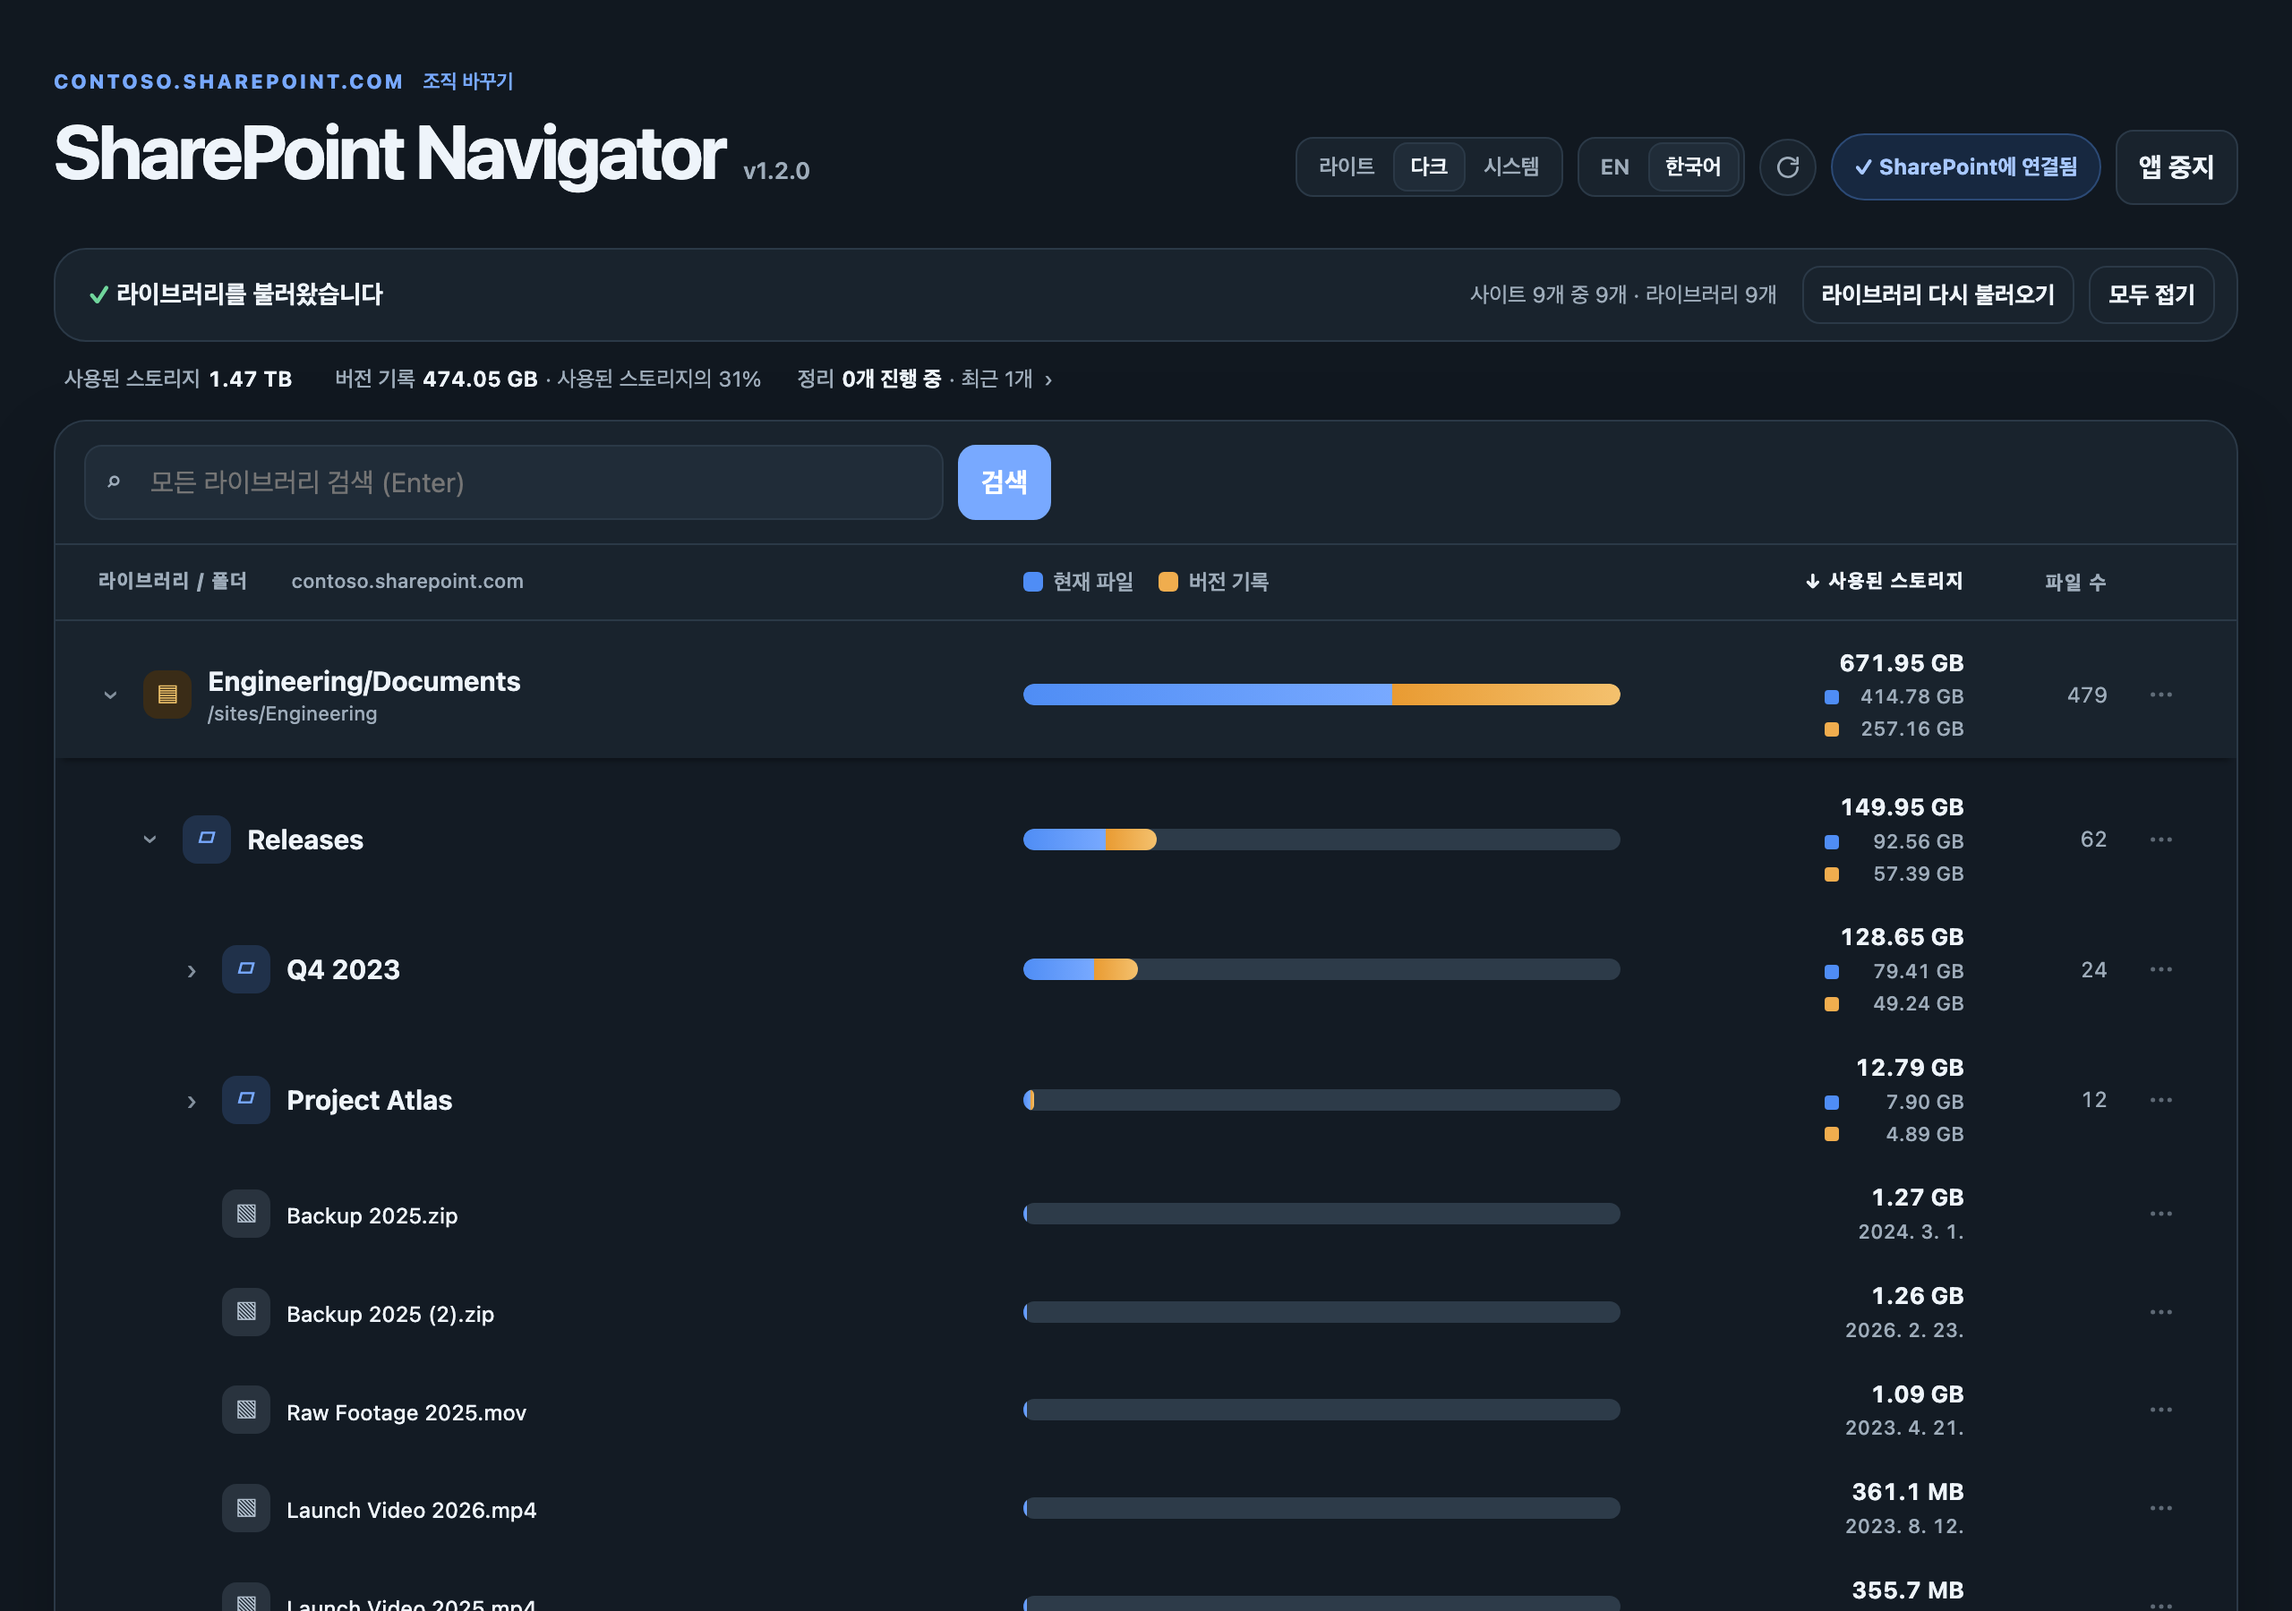
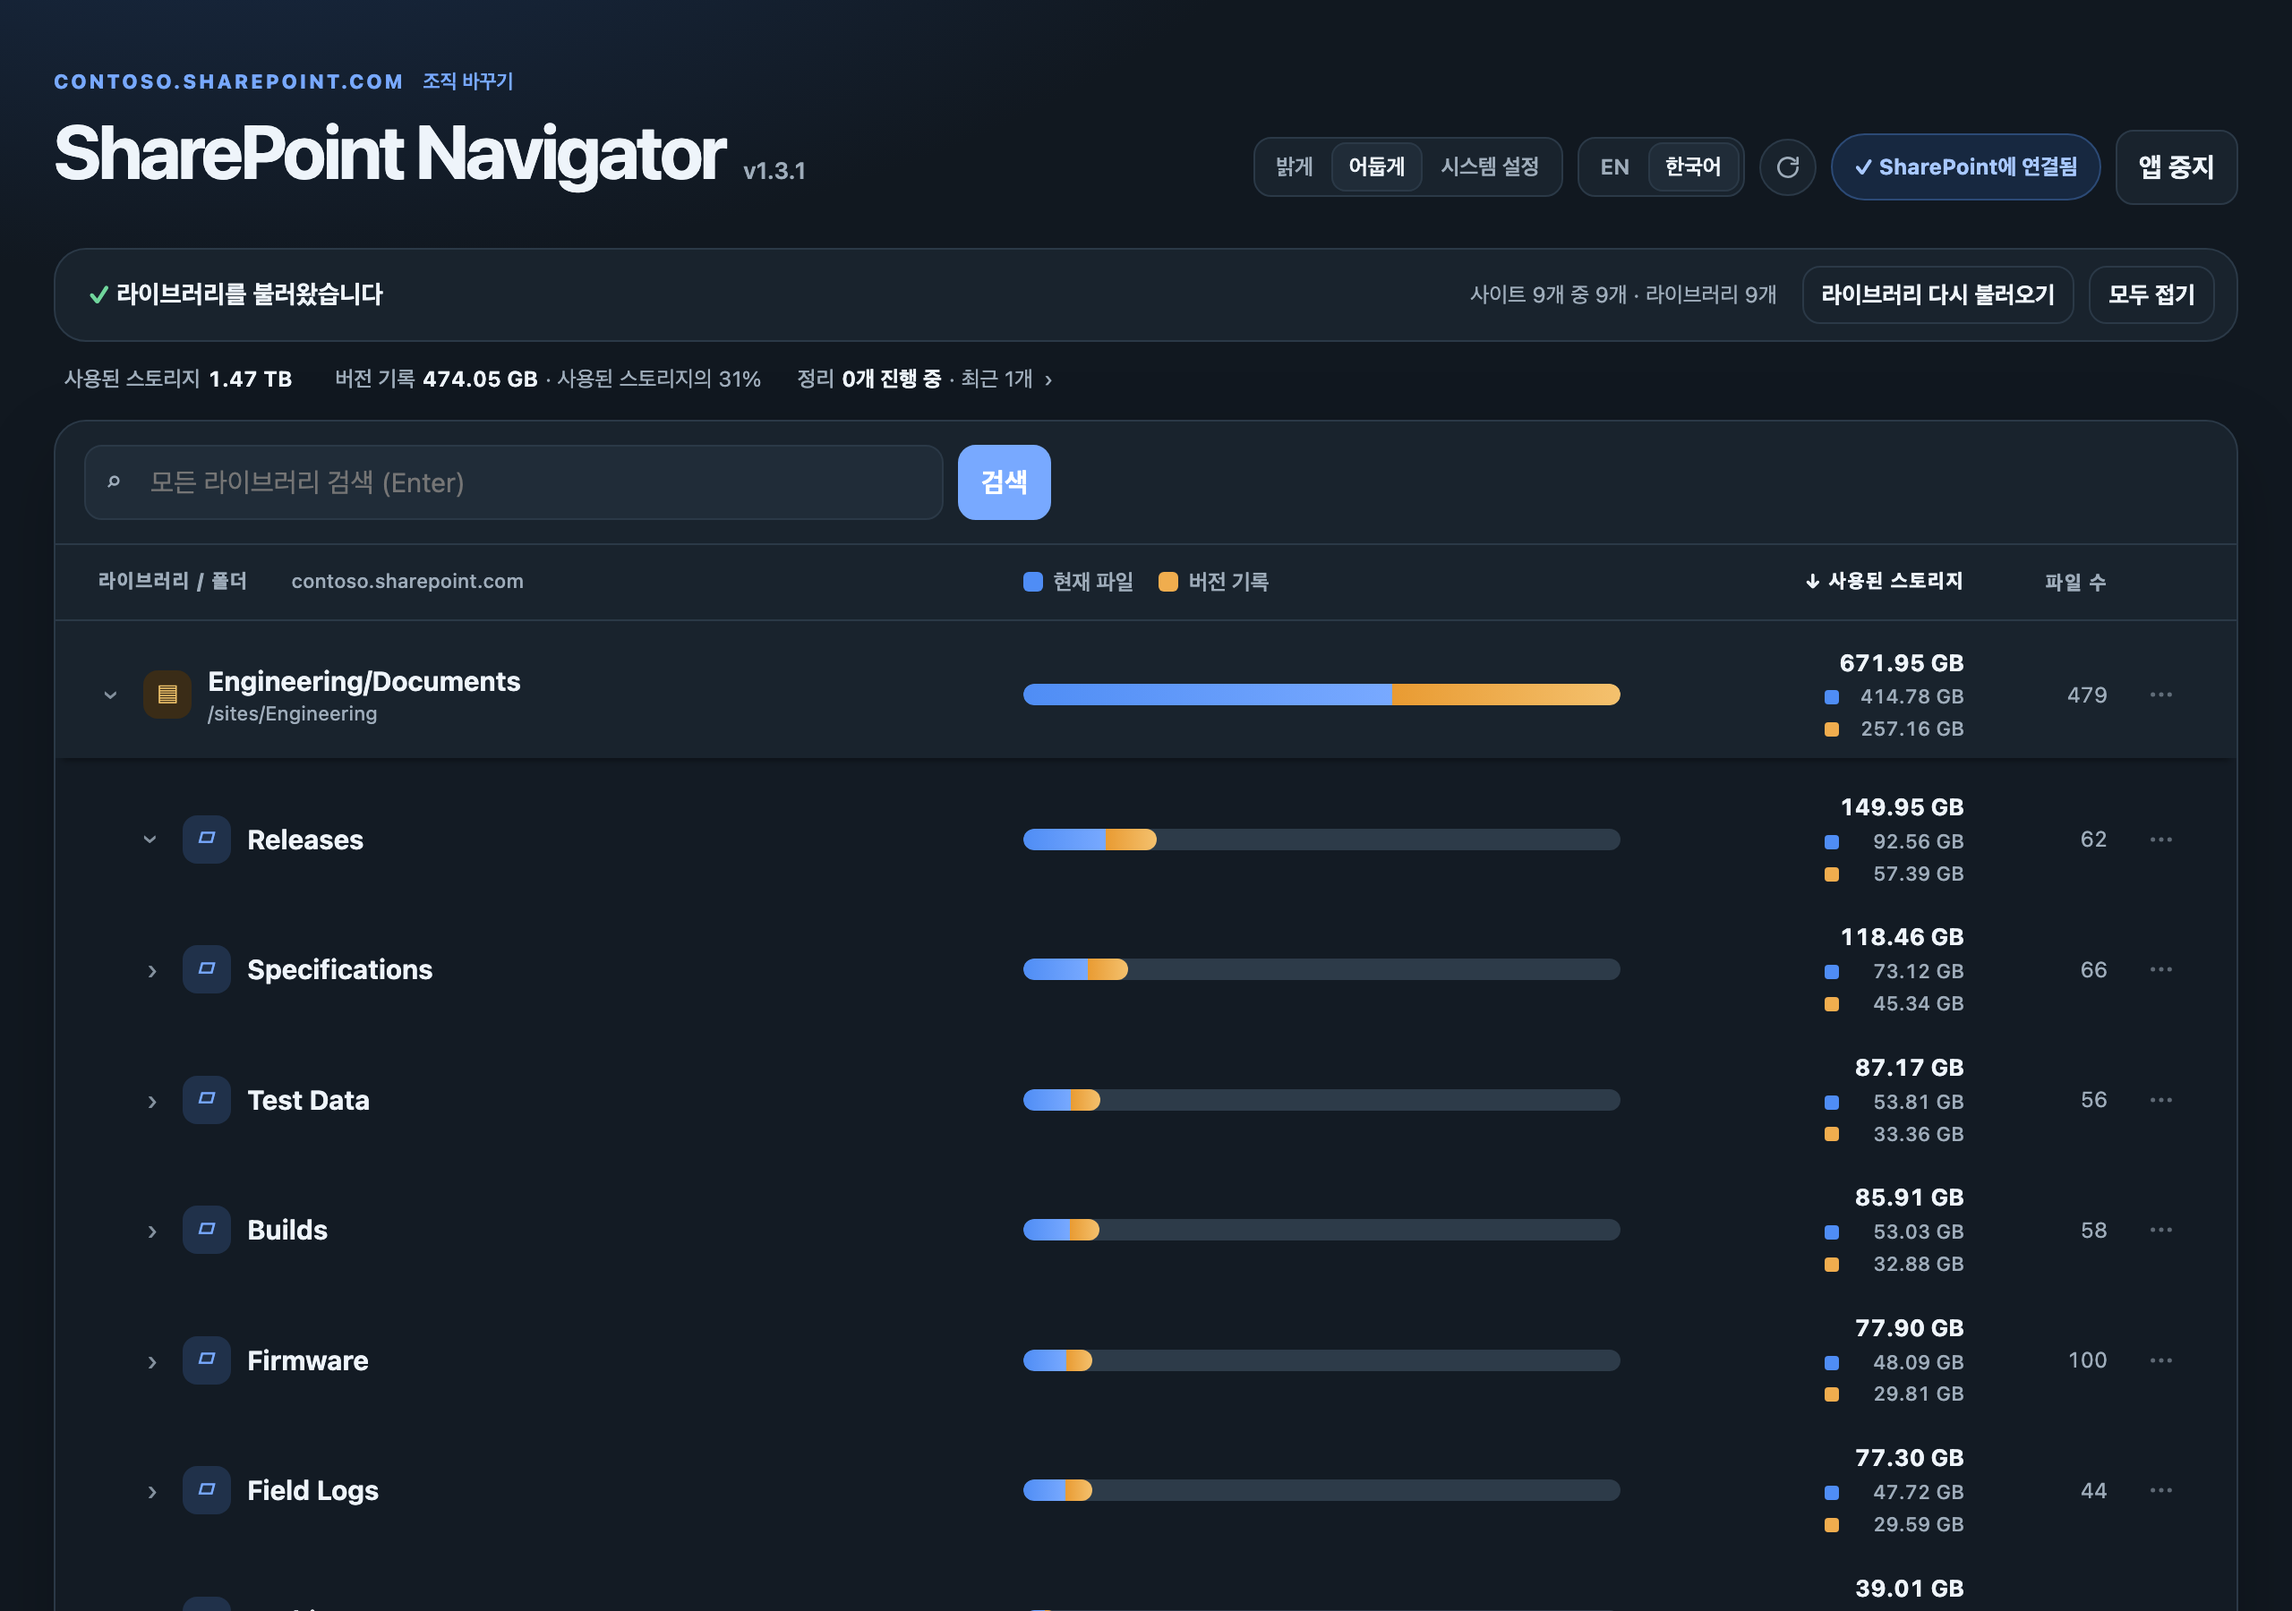
1.3.1: Check for updates and theme names worded as in PDF Epsilon
Same English and Korean text in the update panel, Open the download page when
the check fails, no extra note; the website address closes the panel. Korean
theme names 밝게, 어둡게, 시스템 설정. Product page screenshots retaken.

diff --git a/sharepoint-navigator.html b/sharepoint-navigator.html
@@ -149,7 +149,7 @@
     .update-menu[hidden] { display: none; }
     .update-menu p { margin: 0 0 6px; }
     .update-menu .update-version { color: var(--muted); }
-    .update-menu .update-note { margin: 8px 0 0; color: var(--muted); font-size: 11px; }
+    .update-menu .update-about { margin: 10px 0 0; padding-top: 8px; border-top: 1px solid var(--border); font-size: 12px; }
     .update-menu .update-new { color: var(--done-text); font-weight: 700; }
     .update-menu a { display: inline-block; margin-top: 4px; font-weight: 650; }
     .update-menu a.button { color: white; text-decoration: none; }
@@ -870,9 +870,8 @@
       const I18N = {
         en: {
           'update.label': 'Check for updates', 'update.current': 'You have version {version}.', 'update.checking': 'Checking…',
-          'update.latest': "You're up to date.", 'update.available': 'Version {version} is out.', 'update.download': 'Open the download page',
-          'update.failed': "Couldn't check right now. Check your connection, or visit the website.", 'update.site': 'Visit the website',
-          'update.note': 'Asks GitHub for the newest version number. Nothing else is sent.',
+          'update.latest': 'You’re up to date.', 'update.available': 'Version {version} is out.', 'update.download': 'Open the download page',
+          'update.failed': 'Couldn’t check right now. Check your connection, or visit the website.',
           'theme.label': 'Theme', 'theme.light': 'Light', 'theme.dark': 'Dark', 'theme.system': 'System', 'lang.label': 'Language',
           'badge.title': 'The app runs only on this computer.', 'badge.connecting': 'Connecting…', 'badge.connected': '✓ Connected to SharePoint',
           'badge.notConnected': '⚠ Not connected', 'badge.openFromApp': '⚠ Not connected · open this page from the app',
@@ -1022,10 +1021,9 @@
         },
         ko: {
           'update.label': '업데이트 확인', 'update.current': '지금 버전은 {version}입니다.', 'update.checking': '확인하는 중…',
-          'update.latest': '최신 버전입니다.', 'update.available': '{version} 버전이 나왔습니다.', 'update.download': '다운로드 페이지 열기',
-          'update.failed': '지금은 확인할 수 없습니다. 연결을 확인하거나 웹사이트를 방문하세요.', 'update.site': '웹사이트 방문',
-          'update.note': 'GitHub에 최신 버전 번호만 묻습니다. 다른 것은 보내지 않습니다.',
-          'theme.label': '테마', 'theme.light': '라이트', 'theme.dark': '다크', 'theme.system': '시스템', 'lang.label': '언어',
+          'update.latest': '최신 버전입니다.', 'update.available': '새 버전({version})이 나왔습니다.', 'update.download': '다운로드 페이지 열기',
+          'update.failed': '지금은 확인할 수 없습니다. 인터넷 연결을 확인하거나 웹사이트를 방문해 주세요.',
+          'theme.label': '테마', 'theme.light': '밝게', 'theme.dark': '어둡게', 'theme.system': '시스템 설정', 'lang.label': '언어',
           'badge.title': '이 앱은 이 컴퓨터에서만 실행됩니다.', 'badge.connecting': '연결 중…', 'badge.connected': '✓ SharePoint에 연결됨',
           'badge.notConnected': '⚠ 연결되지 않음', 'badge.openFromApp': '⚠ 연결되지 않음 · 앱에서 이 페이지를 여세요',
           'badge.notRunning': '⚠ 앱이 실행 중이 아님', 'badge.stopped': '중지됨',
@@ -2692,14 +2690,6 @@
         updateButton.setAttribute('aria-expanded', String(Boolean(updateState.status)));
         if (!updateState.status) return;
         const lines = [el('p', 'update-version', t('update.current', { version: appVersion ? appVersion.join('.') : '?' }))];
-        // The website address, shown like an About line in every state of the panel.
-        const site = el('a', 'update-site', SITE_ADDRESS);
-        site.href = `https://${SITE_ADDRESS}/`;
-        site.target = '_blank';
-        site.rel = 'noopener noreferrer';
-        const siteLine = el('p');
-        siteLine.append(site);
-        lines.push(siteLine);
         const link = (key, primary) => {
           const a = el('a', primary ? 'button primary' : '', t(key));
           a.href = UPDATE_PAGE;
@@ -2710,8 +2700,15 @@
         if (updateState.status === 'checking') lines.push(el('p', '', t('update.checking')));
         else if (updateState.status === 'latest') lines.push(el('p', '', t('update.latest')));
         else if (updateState.status === 'available') lines.push(el('p', 'update-new', t('update.available', { version: updateState.latest.join('.') })), link('update.download', true));
-        else lines.push(el('p', '', t('update.failed')), link('update.site', false));
-        lines.push(el('p', 'update-note', t('update.note')));
+        else lines.push(el('p', '', t('update.failed')), link('update.download', false));
+        // The website address, last in every state: this app has no About window to show it.
+        const site = el('a', 'update-site', SITE_ADDRESS);
+        site.href = `https://${SITE_ADDRESS}/`;
+        site.target = '_blank';
+        site.rel = 'noopener noreferrer';
+        const siteLine = el('p', 'update-about');
+        siteLine.append(site);
+        lines.push(siteLine);
         updateMenu.replaceChildren(...lines);
       }
       async function checkForUpdate() {

diff --git a/site/site.js b/site/site.js
@@ -25,7 +25,7 @@ const KO = {
   "b2.label": "모든 사이트를 한 번에", "b2.sub": "하나의 트리, 하나의 기준",
   "b3.label": "버전 기록 표시", "b3.sub": "되찾을 수 있는 공간",
   "b4.label": "모든 사이트 검색", "b4.sub": "찾은 다음 폴더로 바로",
-  "b5.label": "한국어와 English", "b5.sub": "라이트와 다크",
+  "b5.label": "한국어와 English", "b5.sub": "밝은 화면과 어두운 화면",
   "b6.label": "무료 오픈 소스", "b6.sub": "MIT 라이선스",
   "features.title": "저장 공간을 알고 나서 정리하세요",
   "f1.title": "모든 사이트, 하나의 트리",

diff --git a/docs/HISTORY.md b/docs/HISTORY.md
@@ -4,6 +4,7 @@
 
 | Version | Date | Change |
 |---|---|---|
+| 1.3.1 | 2026-11-05 | Release fix: Apple refused to notarize the 1.3.0 build because of how the build passed the password; fixed, so 1.3.1 is the first signed and notarized release (1.3.0 was never published). Check for updates and the theme names now use PDF Epsilon's wording. 81 offline tests. |
 | 1.3.0 | 2026-11-05 | The macOS app is signed with the owner's Developer ID and notarized by Apple in the release build, so it opens without the Open Anyway step. Windows stays unsigned. The website address yusungchang.com/sharepoint-navigator appears in the app's update panel. 81 offline tests. |
 | 1.2.1 | 2026-11-03 | Release fix: the Windows build's tests failed on a file-permission check Windows can't do; that check now runs only on macOS and Linux. 81 offline tests. |
 | 1.2.0 | 2026-11-03 | Opening a new version while an older one runs now stops the old copy and starts the new one (1.1.0 and older get a message to click Stop app instead). 81 offline tests. |
@@ -37,6 +38,25 @@ Versions follow the owner's "vibe" scheme: `x.y.z`. Each working session raises 
 (a new feature or product) raises y and resets z to 0. x stays 0 until the owner says 1.0. The version is
 set in one place, `__version__` in `sharepoint-navigator.py`, and shown in the page header, the
 terminal, `--version` and `--self-check`.
+
+## 1.3.1, 5 November 2026
+
+The v1.3.0 tag build signed the Mac app with the Developer ID (the strict check passed in CI), but Apple's
+notary service answered 401 "invalid credentials". The build passed the password as `@env:NAME`, a form
+only the older `altool` understood; `notarytool` took that text as the password. It now gets the
+app-specific password itself (masked in the CI log). The setup script had checked the real credentials
+with Apple, which is why they were known to be right. No 1.3.0 release was published (the release job
+needs both builds), and as with 1.2.0 the pushed tag stays and the fix gets the next number. Checked with
+a trial build on a branch before tagging (Apple: Accepted; the zip's copy assessed as "Notarized Developer
+ID").
+
+Shared wording with PDF Epsilon (owner's request): the Check for updates panel now reads as PDF Epsilon's,
+in English (curly apostrophes) and Korean ("새 버전({version})이 나왔습니다.", "인터넷 연결을 확인하거나 웹사이트를
+방문해 주세요."); when the check fails it offers "Open the download page", as there, instead of a separate
+"Visit the website" button; the extra "Nothing else is sent" note is gone. The panel ends with the website
+address instead, the place PDF Epsilon gives it in its About window. The Korean theme names follow PDF
+Epsilon too: 밝게, 어둡게, 시스템 설정 (were 라이트, 다크, 시스템); the product page's badge says 밝은 화면과
+어두운 화면, and its screenshots were retaken. Offline tests 81/81.
 
 ## 1.3.0, 5 November 2026
 
